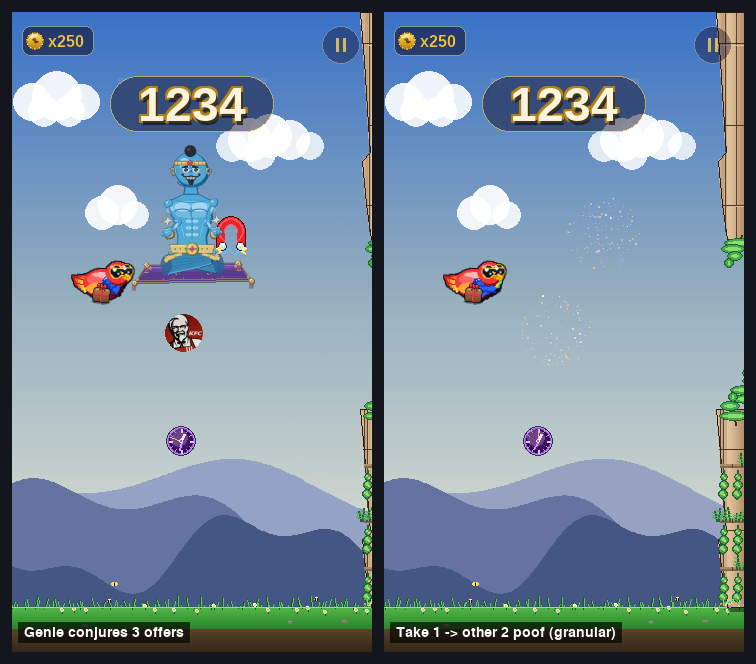
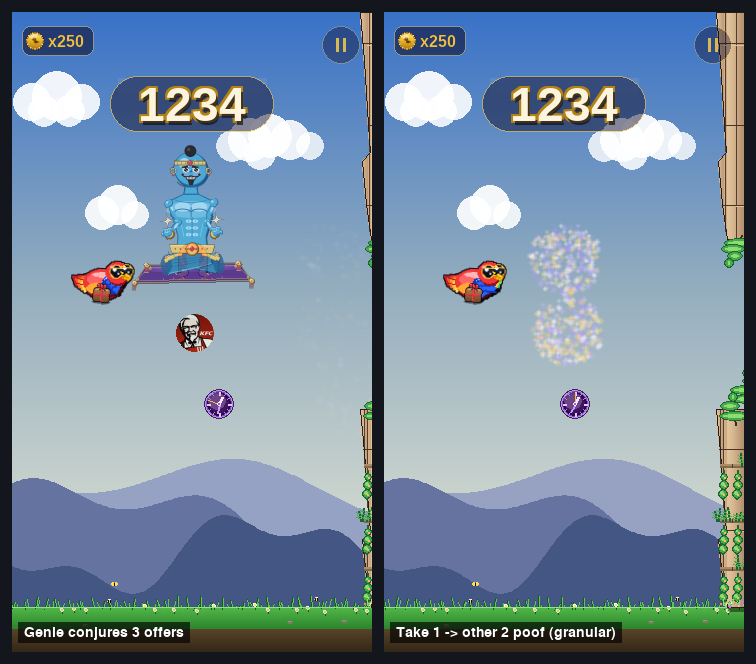
genie: make the magic dust a continuous cloud, not scattered confetti
PoofGrain now blits a cached soft-edged mote, and _spawn_grainy_poof
emits many more, slightly larger overlapping motes (density 0.16->0.28,
size 3-4) with a milder twinkle, so the burst blends into a dense
continuous cloud instead of separate specks. Caching keeps the high
mote count cheap. Regenerates the comparison + offer-vanish demos.

https://claude.ai/code/session_01Ms85cBEeRiAtxZBCNh5vN5

diff --git a/game/entities.py b/game/entities.py
@@ -3311,11 +3311,37 @@ class CloudPuff:
         surf.blit(s, (int(self.x - r - 1), int(self.y - r - 1)))
 
 
+_MOTE_CACHE: dict = {}
+
+
+def _mote_sprite(size, alpha, color):
+    """Cached soft mote: a small disc with a gentle alpha falloff so
+    that many overlapping motes blend into a continuous CLOUD rather
+    than reading as separate hard specks. Cached by (size, alpha
+    bucket, colour) so a dense burst costs blits, not allocations."""
+    size = max(2, int(size))
+    ab = max(16, min(255, (int(alpha) // 16) * 16))
+    key = (size, ab, color)
+    spr = _MOTE_CACHE.get(key)
+    if spr is None:
+        d = size * 2
+        spr = pygame.Surface((d, d), pygame.SRCALPHA)
+        c = size
+        steps = max(2, size)
+        for i in range(steps, 0, -1):
+            rr = max(1, int(size * i / steps))
+            frac = i / steps                       # 1 rim → ~0 centre
+            a = int(ab * (1.0 - 0.85 * frac))      # soft edge, solid core
+            pygame.draw.circle(spr, (*color, a), (c, c), rr)
+        _MOTE_CACHE[key] = spr
+    return spr
+
+
 class PoofGrain:
-    """A single mote of MAGIC DUST — a tiny 1-2 px speck that drifts
-    outward, slows like settling dust, twinkles, and fades. Spawned in
-    large numbers so the burst reads as a dense cloud of fine glittery
-    dust rather than a few big smoke circles."""
+    """A single mote of MAGIC DUST — a small soft speck that drifts
+    outward, slows like settling dust, twinkles faintly, and fades.
+    Spawned in LARGE, DENSE numbers (and slightly overlapping) so the
+    burst reads as a continuous cloud, not scattered confetti."""
     __slots__ = ("x", "y", "vx", "vy", "life", "life_max", "size",
                  "color", "_ph")
 
@@ -3341,16 +3367,14 @@ class PoofGrain:
 
     def draw(self, surf):
         t = max(0.0, self.life / self.life_max)      # 1→0 as it dies
-        # Twinkle: shimmer the alpha so the dust glitters like magic.
+        # Faint twinkle (kept mild so the mass reads as cloud, not glitter).
         age = self.life_max - self.life
-        tw = 0.55 + 0.45 * math.sin(self._ph + age * 26.0)
-        alpha = int(235 * t * tw)
+        tw = 0.80 + 0.20 * math.sin(self._ph + age * 20.0)
+        alpha = int(200 * t * tw)
         if alpha <= 0:
             return
-        sz = max(1, self.size)
-        s = pygame.Surface((sz, sz), pygame.SRCALPHA)
-        s.fill((*self.color, alpha))
-        surf.blit(s, (int(self.x - sz / 2), int(self.y - sz / 2)))
+        spr = _mote_sprite(self.size, alpha, self.color)
+        surf.blit(spr, (int(self.x - self.size), int(self.y - self.size)))
 
 
 # ── GenieShineParticle ───────────────────────────────────────────────────────

diff --git a/game/world.py b/game/world.py
@@ -2206,7 +2206,9 @@ class World:
             palette = [(255, 255, 255), (255, 235, 180), (255, 215, 120),
                        (210, 185, 255), (175, 150, 255)]
         if n is None:
-            n = max(90, int(rx * ry * 0.16))
+            # Dense enough that the soft motes overlap into a continuous
+            # cloud rather than reading as scattered confetti.
+            n = max(140, int(rx * ry * 0.28))
         for _ in range(n):
             a  = random.uniform(0, math.tau)
             rr = math.sqrt(random.random())          # even area fill
@@ -2214,11 +2216,11 @@ class World:
             py = y + math.sin(a) * ry * rr
             dx, dy = px - x, py - y
             d = math.hypot(dx, dy) or 1.0
-            spd = random.uniform(6, 42)
+            spd = random.uniform(5, 32)
             vx = dx / d * spd                         # gentle outward drift
-            vy = dy / d * spd - random.uniform(6, 28)
+            vy = dy / d * spd - random.uniform(5, 22)
             life = random.uniform(0.45, 0.95)
-            size = random.choice((1, 1, 1, 2))
+            size = random.choice((3, 3, 4, 4))        # soft motes that overlap
             self.particles.append(
                 PoofGrain(px, py, vx, vy, life, size, random.choice(palette)))
 

diff --git a/tools/render_genie_phases.py b/tools/render_genie_phases.py
@@ -52,7 +52,7 @@ def _patch_palette(w, palette, _n):
     the live ellipse-fill behaviour so the genie cloud matches his
     size (rx/ry are passed by the genie / offer callers)."""
     def _poof(self, x, y, palette_arg=None, n=None, rx=34, ry=34):
-        cnt = n if n is not None else max(90, int(rx * ry * 0.16))
+        cnt = n if n is not None else max(140, int(rx * ry * 0.28))
         for _ in range(cnt):
             a  = random.uniform(0, math.tau)
             rr = math.sqrt(random.random())
@@ -60,11 +60,11 @@ def _patch_palette(w, palette, _n):
             py = y + math.sin(a) * ry * rr
             dx, dy = px - x, py - y
             d = math.hypot(dx, dy) or 1.0
-            spd = random.uniform(6, 42)
+            spd = random.uniform(5, 32)
             vx = dx / d * spd
-            vy = dy / d * spd - random.uniform(6, 28)
+            vy = dy / d * spd - random.uniform(5, 22)
             life = random.uniform(0.45, 0.95)
-            size = random.choice((1, 1, 1, 2))
+            size = random.choice((3, 3, 4, 4))
             self.particles.append(
                 PoofGrain(px, py, vx, vy, life, size, random.choice(palette)))
     w._spawn_grainy_poof = types.MethodType(_poof, w)
